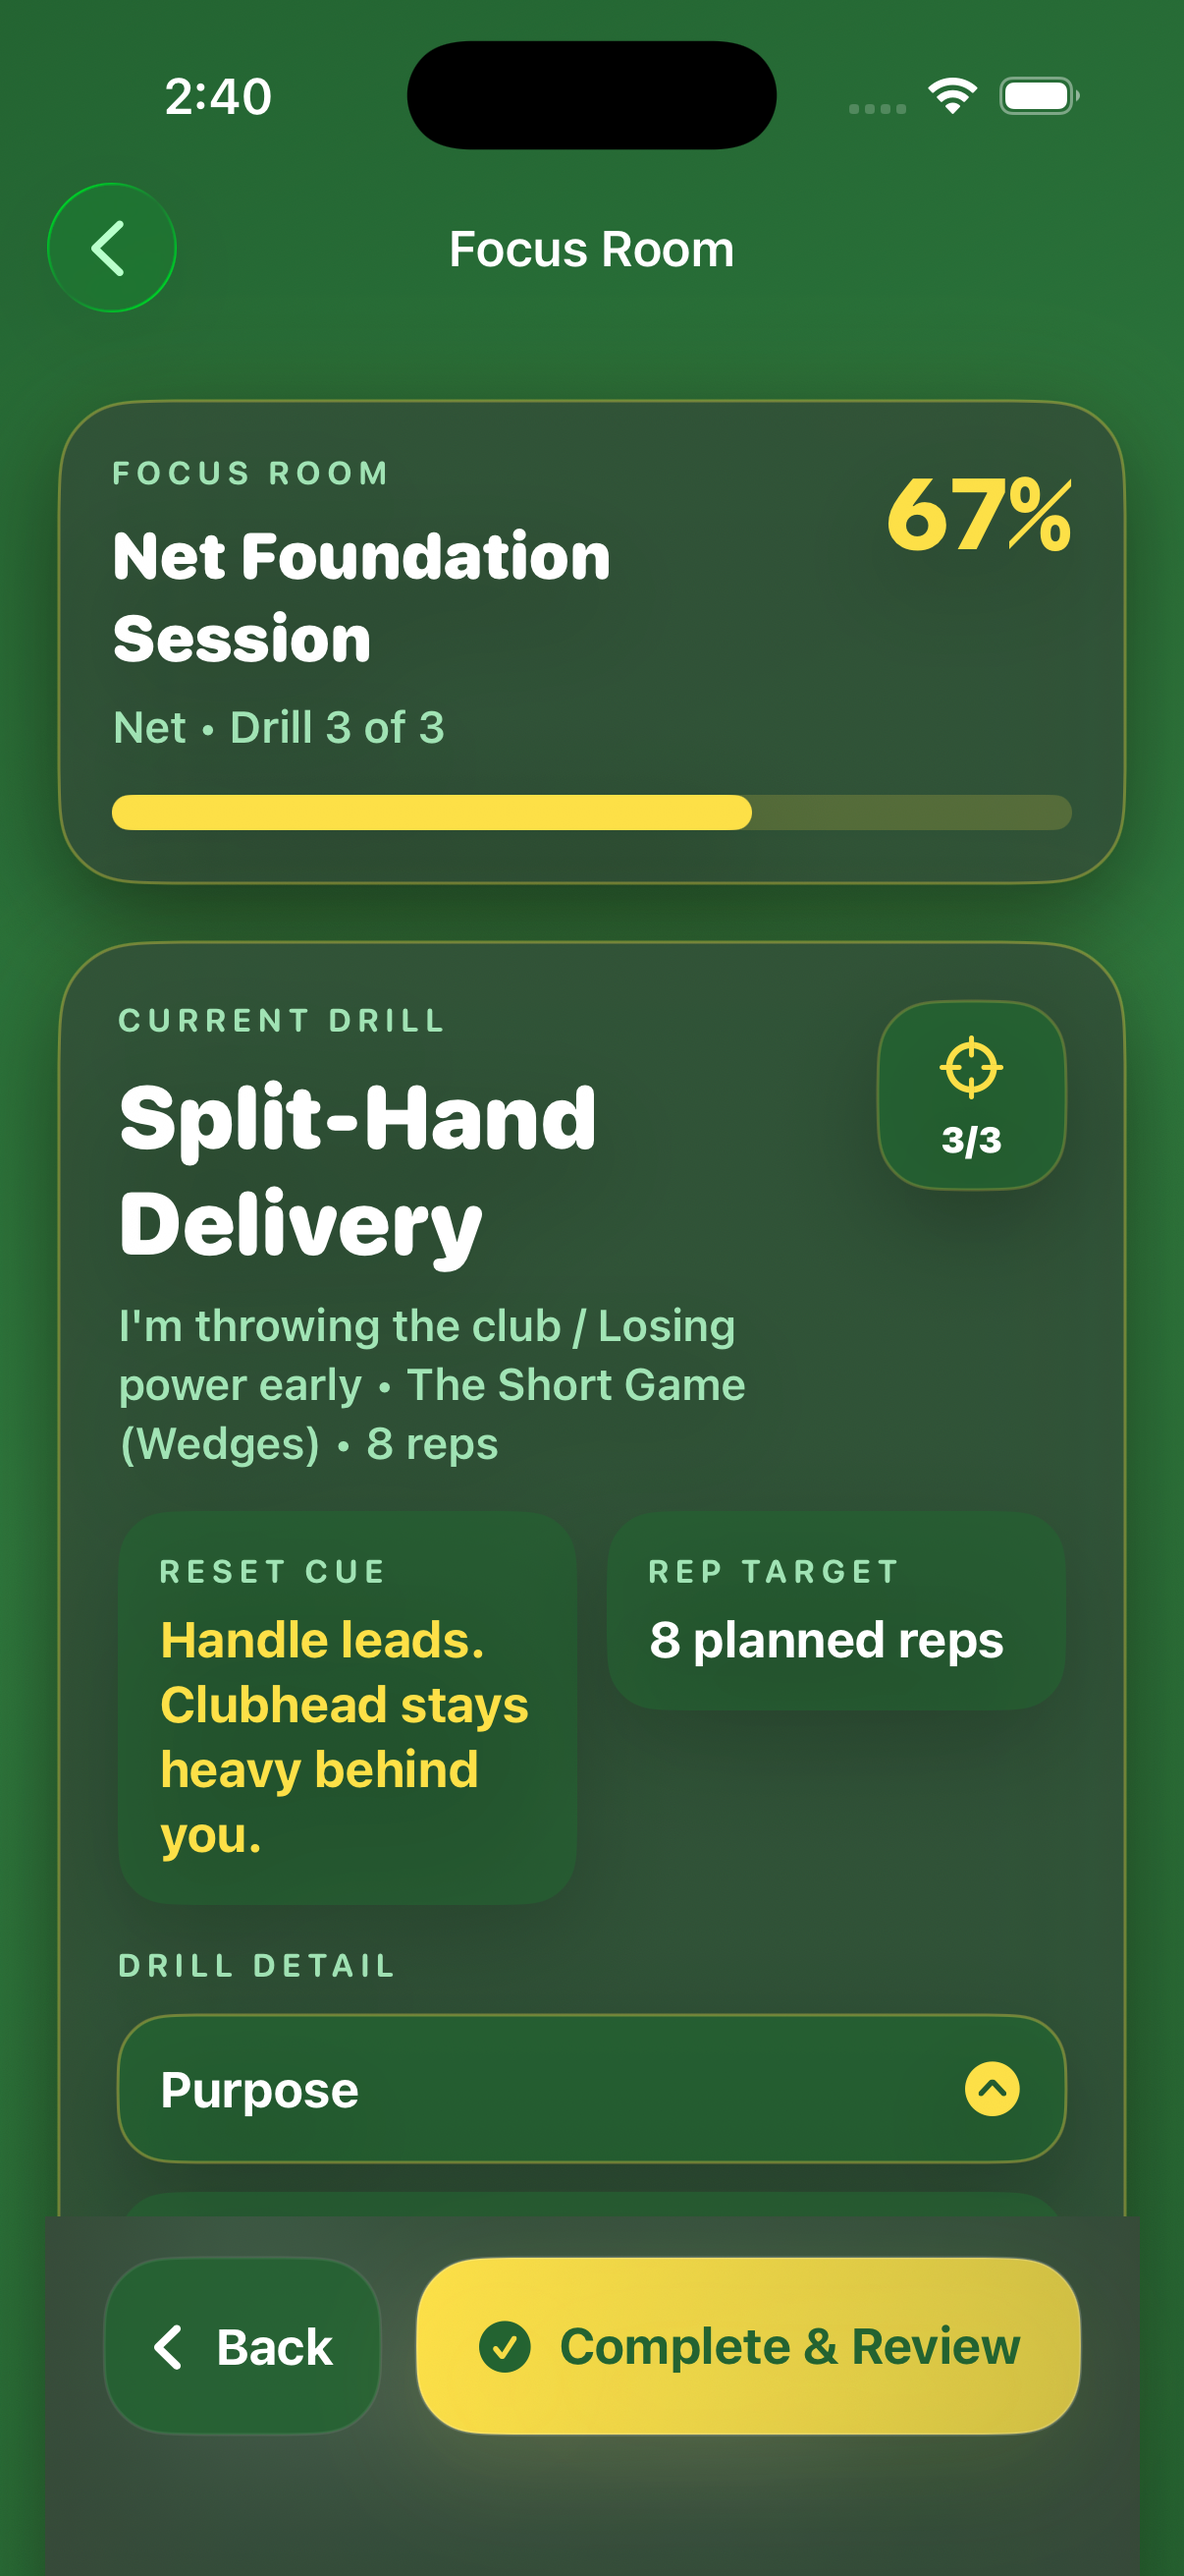
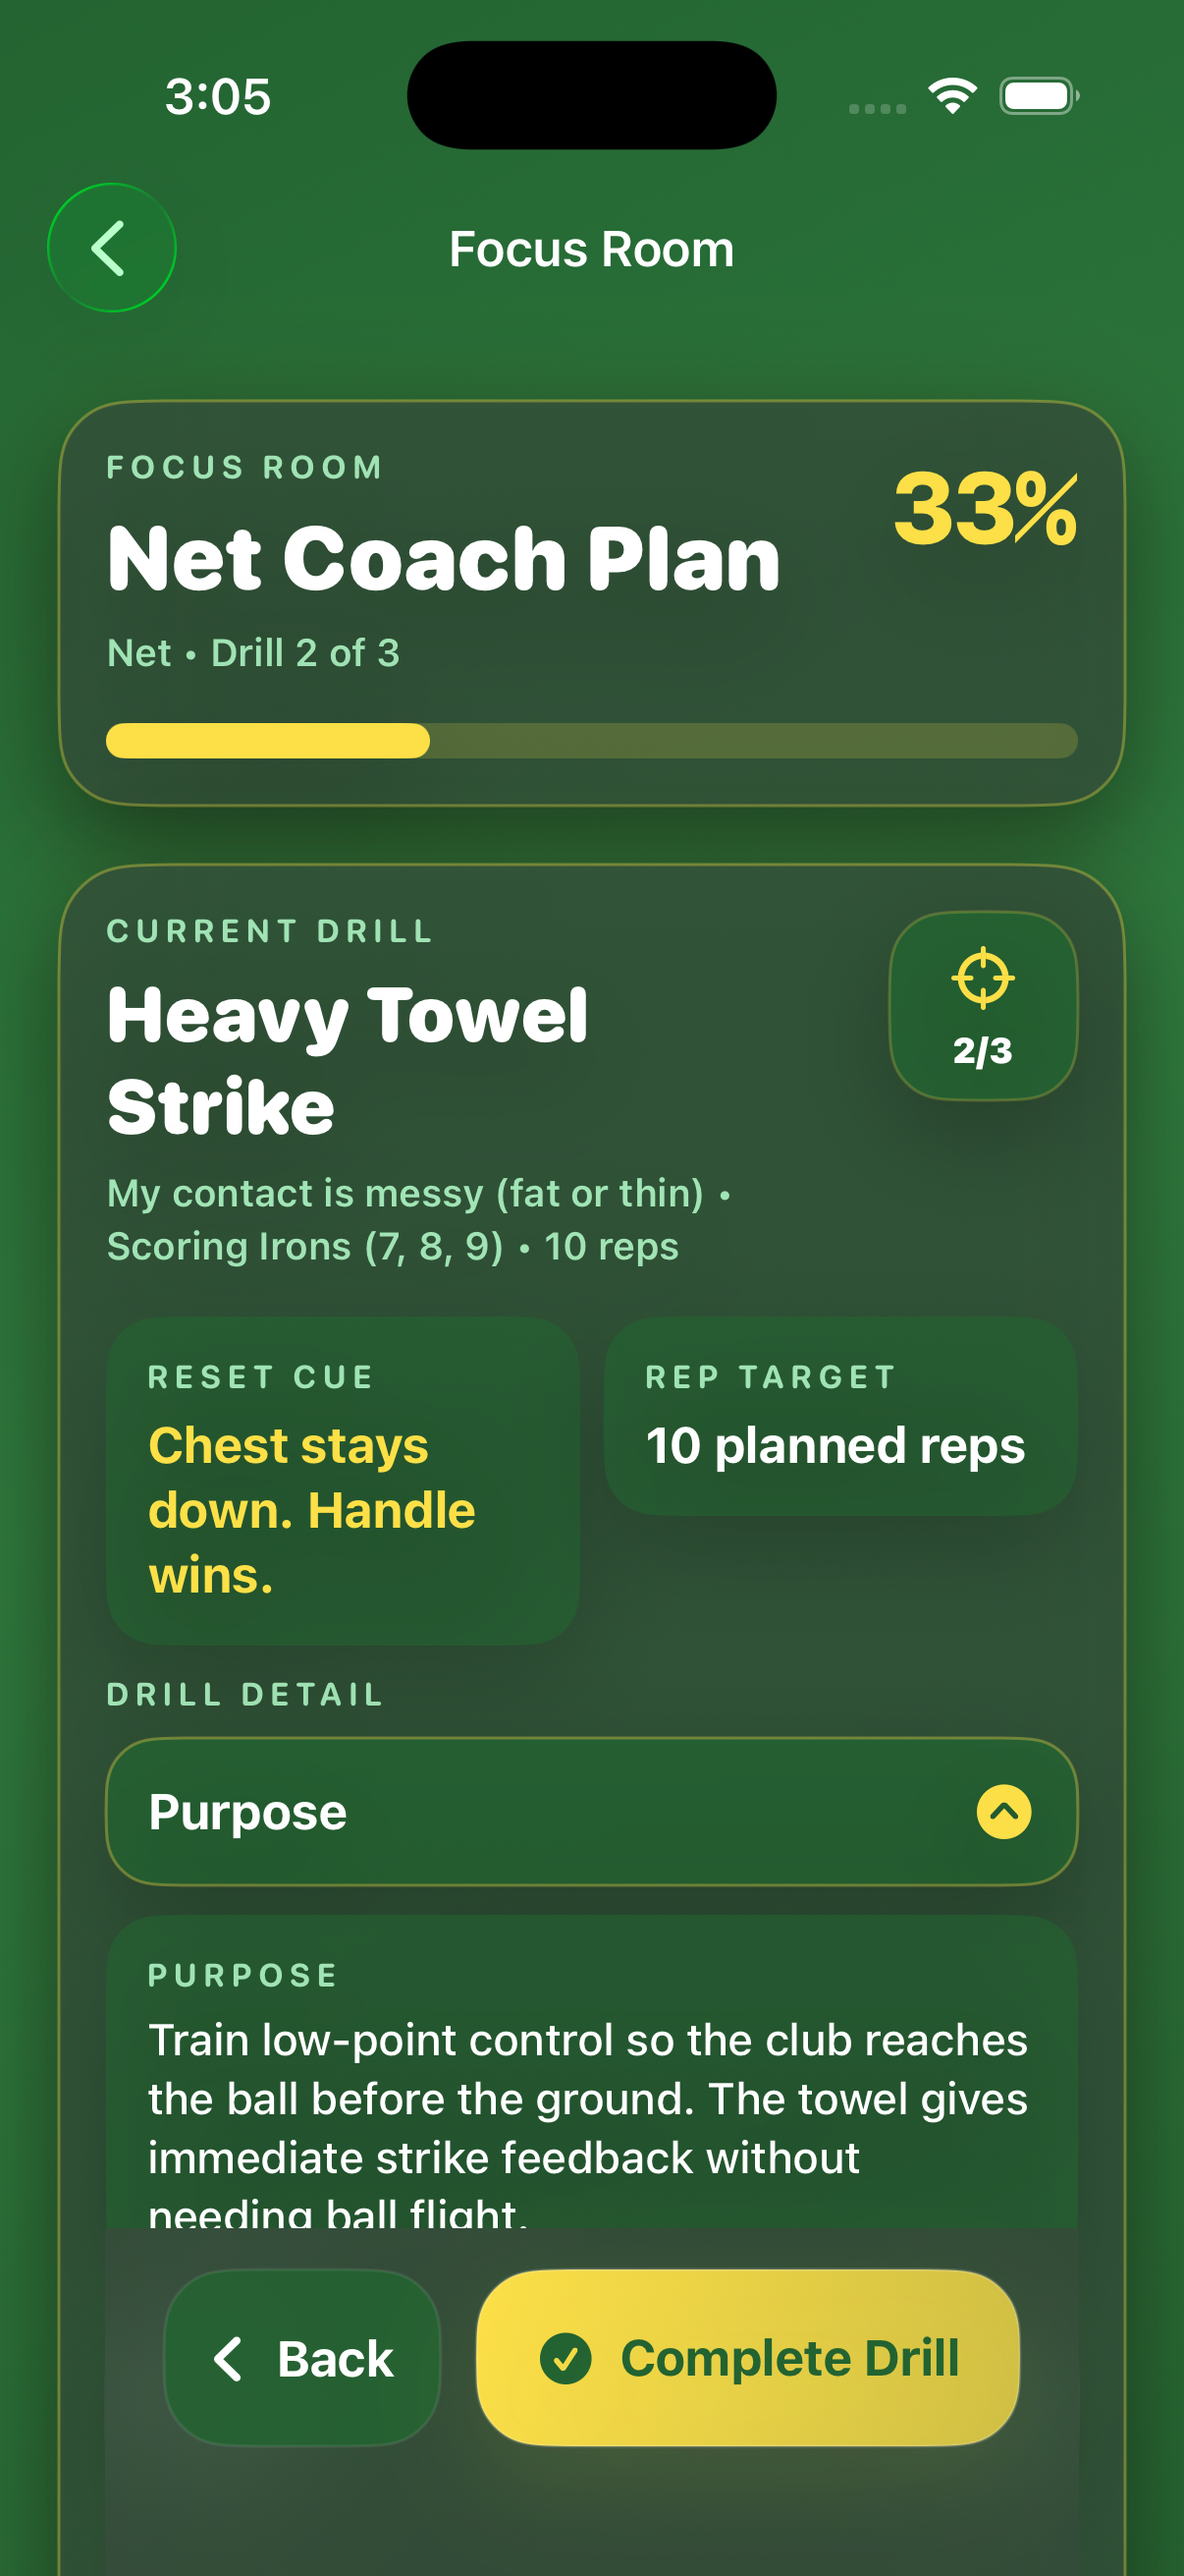
hi

diff --git a/LIFE-IN-SYNC/Garage/GarageActiveSessionView.swift b/LIFE-IN-SYNC/Garage/GarageActiveSessionView.swift
@@ -282,8 +282,8 @@ private enum GarageActiveSessionPhase {
 }
 
 private enum GarageSessionDockLayout {
-    static let contentBottomPadding: CGFloat = 176
-    static let reviewBottomPadding: CGFloat = 196
+    static let contentBottomPadding: CGFloat = 230
+    static let reviewBottomPadding: CGFloat = 244
 }
 
 private enum GarageDrillDetailSection: String, CaseIterable, Identifiable {
@@ -346,10 +346,10 @@ private struct GarageSessionLobbyView: View {
             GarageSessionLobbyLeadCard(session: session)
 
             LazyVGrid(columns: [GridItem(.flexible()), GridItem(.flexible())], spacing: 12) {
-                GarageProMetricCard(title: "Environment", value: session.environment.displayName, systemImage: session.environment.systemImage, isActive: true)
-                GarageProMetricCard(title: "Planned Reps", value: "\(totalPlannedReps)", systemImage: "repeat", isActive: totalPlannedReps > 0)
-                GarageProMetricCard(title: "Est. Time", value: "\(estimatedMinutes)m", systemImage: "timer", isActive: estimatedMinutes > 0)
-                GarageProMetricCard(title: "Completed", value: "\(session.completedDrillCount)/\(session.totalDrillCount)", systemImage: "checkmark.seal", isActive: session.completedDrillCount > 0)
+                GarageCompactMetricCard(title: "Environment", value: session.environment.displayName, systemImage: session.environment.systemImage, isActive: true)
+                GarageCompactMetricCard(title: "Planned Reps", value: "\(totalPlannedReps)", systemImage: "repeat", isActive: totalPlannedReps > 0)
+                GarageCompactMetricCard(title: "Est. Time", value: "\(estimatedMinutes)m", systemImage: "timer", isActive: estimatedMinutes > 0)
+                GarageCompactMetricCard(title: "Completed", value: "\(session.completedDrillCount)/\(session.totalDrillCount)", systemImage: "checkmark.seal", isActive: session.completedDrillCount > 0)
             }
 
             GarageProCard(isActive: true) {
@@ -383,7 +383,8 @@ private struct GarageSessionLobbyView: View {
                 }
             }
             .padding(.horizontal, 20)
-            .padding(.vertical, 14)
+            .padding(.vertical, 10)
+            .padding(.top, 4)
             .background(.ultraThinMaterial)
         }
     }
@@ -464,7 +465,8 @@ private struct GarageFocusSessionView: View {
                 }
             }
             .padding(.horizontal, 20)
-            .padding(.vertical, 14)
+            .padding(.vertical, 10)
+            .padding(.top, 4)
             .background(.ultraThinMaterial)
         }
     }
@@ -477,19 +479,22 @@ private struct GarageFocusHeaderCard: View {
     let overallProgressRatio: Double
 
     var body: some View {
-        GarageProCard(isActive: true, cornerRadius: 26, padding: 18) {
+        GarageProCard(isActive: true, cornerRadius: 24, padding: 16) {
             HStack(alignment: .top, spacing: 14) {
-                VStack(alignment: .leading, spacing: 8) {
+                VStack(alignment: .leading, spacing: 6) {
                     GarageFocusLabel("Focus Room")
 
                     Text(session.templateName)
-                        .font(.system(.title2, design: .rounded).weight(.black))
+                        .font(.system(size: 36, weight: .black, design: .rounded))
                         .foregroundStyle(GarageProTheme.textPrimary)
-                        .fixedSize(horizontal: false, vertical: true)
+                        .lineLimit(1)
+                        .minimumScaleFactor(0.72)
 
                     Text("\(session.environment.displayName) • Drill \(min(currentDrillIndex + 1, max(session.totalDrillCount, 1))) of \(session.totalDrillCount)")
-                        .font(.subheadline.weight(.semibold))
+                        .font(.footnote.weight(.semibold))
                         .foregroundStyle(GarageProTheme.textSecondary)
+                        .lineLimit(1)
+                        .minimumScaleFactor(0.84)
                 }
 
                 Spacer(minLength: 8)
@@ -502,6 +507,7 @@ private struct GarageFocusHeaderCard: View {
             }
 
             GarageLinearProgressBar(ratio: overallProgressRatio)
+                .padding(.top, 2)
         }
     }
 }
@@ -517,18 +523,19 @@ private struct GarageFocusedDrillCard: View {
     let onEditNote: () -> Void
 
     var body: some View {
-        GarageProCard(isActive: true, cornerRadius: 28, padding: 20) {
+        GarageProCard(isActive: true, cornerRadius: 26, padding: 16) {
             HStack(alignment: .top, spacing: 14) {
-                VStack(alignment: .leading, spacing: 8) {
+                VStack(alignment: .leading, spacing: 6) {
                     GarageFocusLabel("Current Drill")
 
                     Text(entry.drill.title)
-                        .font(.system(size: 30, weight: .black, design: .rounded))
+                        .font(.system(size: 26, weight: .black, design: .rounded))
                         .foregroundStyle(GarageProTheme.textPrimary)
-                        .fixedSize(horizontal: false, vertical: true)
+                        .lineLimit(2)
+                        .minimumScaleFactor(0.8)
 
                     Text(entry.drill.metadataSummary)
-                        .font(.subheadline.weight(.semibold))
+                        .font(.footnote.weight(.semibold))
                         .foregroundStyle(GarageProTheme.textSecondary)
                         .fixedSize(horizontal: false, vertical: true)
                 }
@@ -547,8 +554,10 @@ private struct GarageFocusedDrillCard: View {
                 repTarget: detail.repTargetText(for: entry.drill),
                 expandedSection: $expandedDetailSection
             )
+            .padding(.top, 2)
 
             GarageFocusNotesCard(note: $note, onEditNote: onEditNote)
+                .padding(.top, 2)
         }
     }
 }
@@ -560,13 +569,13 @@ private struct GarageDrillDetailPanel: View {
     @Binding var expandedSection: GarageDrillDetailSection
 
     var body: some View {
-        VStack(alignment: .leading, spacing: 14) {
-            HStack(alignment: .top, spacing: 10) {
+        VStack(alignment: .leading, spacing: 10) {
+            HStack(alignment: .top, spacing: 8) {
                 GarageDetailCompactBlock(title: "Reset Cue", value: detail.resetCue, isAccent: true)
                 GarageDetailCompactBlock(title: "Rep Target", value: repTarget, isAccent: false)
             }
 
-            VStack(alignment: .leading, spacing: 10) {
+            VStack(alignment: .leading, spacing: 8) {
                 GarageFocusLabel("Drill Detail")
 
                 ForEach(GarageDrillDetailSection.allCases) { section in
@@ -801,7 +810,8 @@ private struct GarageSessionReviewView: View {
                 }
             }
             .padding(.horizontal, 20)
-            .padding(.vertical, 14)
+            .padding(.vertical, 10)
+            .padding(.top, 4)
             .background(.ultraThinMaterial)
         }
     }
@@ -966,29 +976,30 @@ private struct GarageSessionLobbyLeadCard: View {
     let session: ActivePracticeSession
 
     var body: some View {
-        GarageProCard(isActive: true, cornerRadius: 28, padding: 20) {
+        GarageProCard(isActive: true, cornerRadius: 24, padding: 16) {
             HStack(alignment: .top, spacing: 16) {
-                VStack(alignment: .leading, spacing: 10) {
+                VStack(alignment: .leading, spacing: 8) {
                     GarageFocusLabel("Session Lobby")
 
                     Text(session.templateName)
-                        .font(.system(size: 28, weight: .black, design: .rounded))
+                        .font(.system(size: 24, weight: .black, design: .rounded))
                         .foregroundStyle(GarageProTheme.textPrimary)
-                        .lineLimit(2)
-                        .minimumScaleFactor(0.76)
+                        .lineLimit(1)
+                        .minimumScaleFactor(0.82)
 
                     Text("Enter the room with one cue, one routine, and no extra noise.")
-                        .font(.subheadline.weight(.medium))
+                        .font(.footnote.weight(.semibold))
                         .foregroundStyle(GarageProTheme.textSecondary)
-                        .fixedSize(horizontal: false, vertical: true)
+                        .lineLimit(2)
+                        .minimumScaleFactor(0.85)
                 }
                 .frame(maxWidth: .infinity, alignment: .leading)
 
-                VStack(alignment: .trailing, spacing: 10) {
+                VStack(alignment: .trailing, spacing: 8) {
                     Image(systemName: session.environment.systemImage)
-                        .font(.system(size: 22, weight: .bold))
+                        .font(.system(size: 20, weight: .bold))
                         .foregroundStyle(GarageProTheme.accent)
-                        .frame(width: 58, height: 58)
+                        .frame(width: 50, height: 50)
                         .background(GarageProTheme.insetSurface, in: RoundedRectangle(cornerRadius: 18, style: .continuous))
                         .overlay(
                             RoundedRectangle(cornerRadius: 18, style: .continuous)
@@ -997,7 +1008,7 @@ private struct GarageSessionLobbyLeadCard: View {
 
                     VStack(alignment: .trailing, spacing: 2) {
                         Text("\(session.totalDrillCount)")
-                            .font(.system(size: 32, weight: .black, design: .monospaced))
+                            .font(.system(size: 27, weight: .black, design: .monospaced))
                             .foregroundStyle(GarageProTheme.textPrimary)
 
                         Text(session.totalDrillCount == 1 ? "Drill" : "Drills")
@@ -1008,6 +1019,41 @@ private struct GarageSessionLobbyLeadCard: View {
                     }
                 }
             }
+        }
+    }
+}
+
+private struct GarageCompactMetricCard: View {
+    let title: String
+    let value: String
+    let systemImage: String
+    var isActive = false
+
+    var body: some View {
+        GarageProCard(isActive: isActive, cornerRadius: 20, padding: 12) {
+            HStack(alignment: .center, spacing: 8) {
+                Image(systemName: systemImage)
+                    .font(.system(size: 14, weight: .bold))
+                    .foregroundStyle(GarageProTheme.accent)
+                    .frame(width: 32, height: 32)
+                    .background(GarageProTheme.accent.opacity(0.15), in: RoundedRectangle(cornerRadius: 12, style: .continuous))
+
+                Spacer(minLength: 8)
+            }
+
+            Text(value)
+                .font(.system(size: 24, weight: .black, design: .rounded))
+                .foregroundStyle(GarageProTheme.textPrimary)
+                .lineLimit(1)
+                .minimumScaleFactor(0.7)
+
+            Text(title)
+                .font(.system(size: 10, weight: .bold, design: .rounded))
+                .textCase(.uppercase)
+                .tracking(1.4)
+                .foregroundStyle(GarageProTheme.textSecondary)
+                .lineLimit(1)
+                .minimumScaleFactor(0.82)
         }
     }
 }
